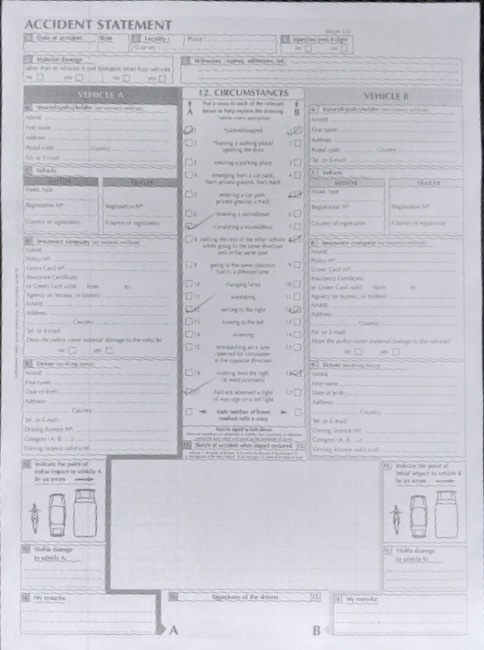
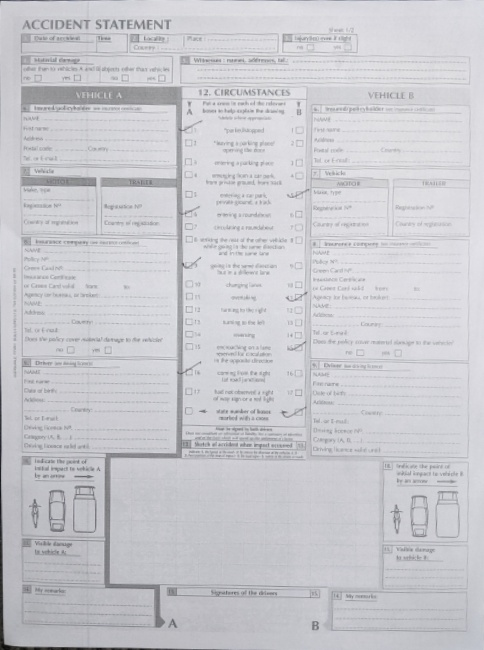
cleaned form laptop

diff --git a/crop_v2.py b/crop_v2.py
@@ -88,7 +88,7 @@ def segmentation(img,x,y,weidth,height):
 
 if __name__ == "__main__":
     
-    image_path = "data/accident_forms/MVIMG_20190823_180455.jpg"
+    image_path = r"C:\Users\durge\PycharmProjects\Checkbox_Detection\data\accident_forms\1566566729259.JPEG"
 
     original_image = cv2.imread(image_path)
 
